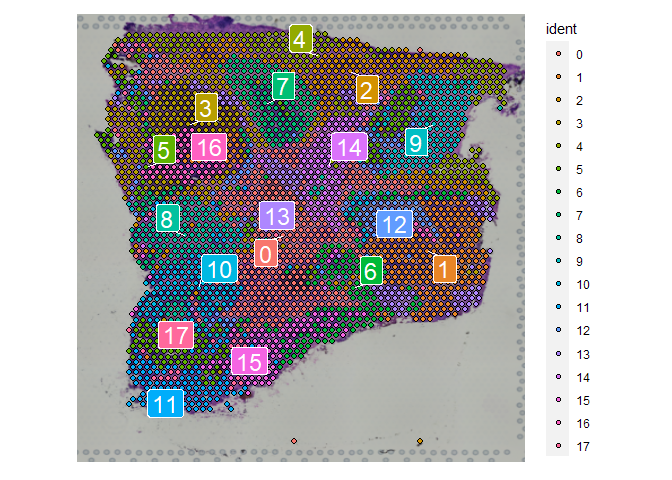
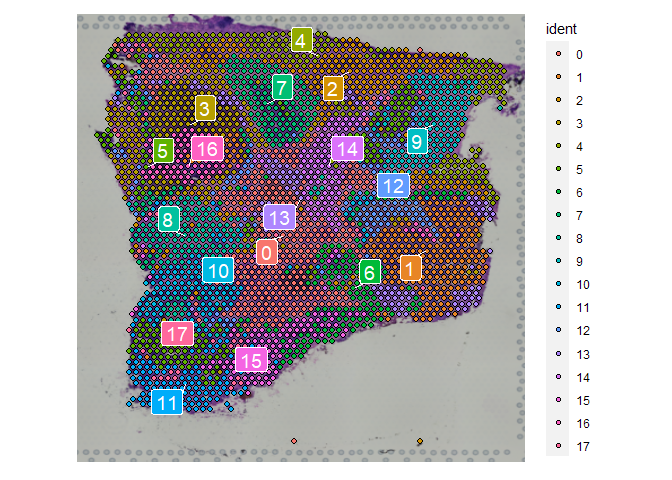
修改

diff --git a/ST_pipeline.md b/ST_pipeline.md
@@ -12,7 +12,7 @@ HSY
 
 ## 1. 基于Seurat的标准流程
 
-> 运行环境中的版本信息如下：R(4.2.1), Seurat(4.1.1)
+> 运行环境中的版本信息如下：R (4.2.1), Seurat (4.1.1)
 
 ``` r
 library(Seurat)
@@ -31,9 +31,85 @@ oneseuv = Load10X_Spatial("D:/hsy/project/ST/data/10x/Human Colorectal Cancer Wh
 
 ``` r
 # Normalization
-oneseuv <- SCTransform(oneseuv, assay = "Spatial", verbose = FALSE)
+oneseuv <- SCTransform(oneseuv, assay = "Spatial")
+```
+
+    ## Calculating cell attributes from input UMI matrix: log_umi
+
+    ## Variance stabilizing transformation of count matrix of size 18900 by 3138
+
+    ## Model formula is y ~ log_umi
+
+    ## Get Negative Binomial regression parameters per gene
+
+    ## Using 2000 genes, 3138 cells
+
+    ##   |                                                                              |                                                                      |   0%  |                                                                              |==================                                                    |  25%  |                                                                              |===================================                                   |  50%  |                                                                              |====================================================                  |  75%  |                                                                              |======================================================================| 100%
+
+    ## Found 95 outliers - those will be ignored in fitting/regularization step
+
+    ## Second step: Get residuals using fitted parameters for 18900 genes
+
+    ##   |                                                                              |                                                                      |   0%  |                                                                              |==                                                                    |   3%  |                                                                              |====                                                                  |   5%  |                                                                              |======                                                                |   8%  |                                                                              |=======                                                               |  11%  |                                                                              |=========                                                             |  13%  |                                                                              |===========                                                           |  16%  |                                                                              |=============                                                         |  18%  |                                                                              |===============                                                       |  21%  |                                                                              |=================                                                     |  24%  |                                                                              |==================                                                    |  26%  |                                                                              |====================                                                  |  29%  |                                                                              |======================                                                |  32%  |                                                                              |========================                                              |  34%  |                                                                              |==========================                                            |  37%  |                                                                              |============================                                          |  39%  |                                                                              |=============================                                         |  42%  |                                                                              |===============================                                       |  45%  |                                                                              |=================================                                     |  47%  |                                                                              |===================================                                   |  50%  |                                                                              |=====================================                                 |  53%  |                                                                              |=======================================                               |  55%  |                                                                              |=========================================                             |  58%  |                                                                              |==========================================                            |  61%  |                                                                              |============================================                          |  63%  |                                                                              |==============================================                        |  66%  |                                                                              |================================================                      |  68%  |                                                                              |==================================================                    |  71%  |                                                                              |====================================================                  |  74%  |                                                                              |=====================================================                 |  76%  |                                                                              |=======================================================               |  79%  |                                                                              |=========================================================             |  82%  |                                                                              |===========================================================           |  84%  |                                                                              |=============================================================         |  87%  |                                                                              |===============================================================       |  89%  |                                                                              |================================================================      |  92%  |                                                                              |==================================================================    |  95%  |                                                                              |====================================================================  |  97%  |                                                                              |======================================================================| 100%
+
+    ## Computing corrected count matrix for 18900 genes
+
+    ##   |                                                                              |                                                                      |   0%  |                                                                              |==                                                                    |   3%  |                                                                              |====                                                                  |   5%  |                                                                              |======                                                                |   8%  |                                                                              |=======                                                               |  11%  |                                                                              |=========                                                             |  13%  |                                                                              |===========                                                           |  16%  |                                                                              |=============                                                         |  18%  |                                                                              |===============                                                       |  21%  |                                                                              |=================                                                     |  24%  |                                                                              |==================                                                    |  26%  |                                                                              |====================                                                  |  29%  |                                                                              |======================                                                |  32%  |                                                                              |========================                                              |  34%  |                                                                              |==========================                                            |  37%  |                                                                              |============================                                          |  39%  |                                                                              |=============================                                         |  42%  |                                                                              |===============================                                       |  45%  |                                                                              |=================================                                     |  47%  |                                                                              |===================================                                   |  50%  |                                                                              |=====================================                                 |  53%  |                                                                              |=======================================                               |  55%  |                                                                              |=========================================                             |  58%  |                                                                              |==========================================                            |  61%  |                                                                              |============================================                          |  63%  |                                                                              |==============================================                        |  66%  |                                                                              |================================================                      |  68%  |                                                                              |==================================================                    |  71%  |                                                                              |====================================================                  |  74%  |                                                                              |=====================================================                 |  76%  |                                                                              |=======================================================               |  79%  |                                                                              |=========================================================             |  82%  |                                                                              |===========================================================           |  84%  |                                                                              |=============================================================         |  87%  |                                                                              |===============================================================       |  89%  |                                                                              |================================================================      |  92%  |                                                                              |==================================================================    |  95%  |                                                                              |====================================================================  |  97%  |                                                                              |======================================================================| 100%
+
+    ## Calculating gene attributes
+
+    ## Wall clock passed: Time difference of 53.5978 secs
+
+    ## Determine variable features
+
+    ## Place corrected count matrix in counts slot
+
+    ## Centering data matrix
+
+    ## Set default assay to SCT
+
+``` r
 # Dimensional reduction and clustering
-oneseuv <- RunPCA(oneseuv, assay = "SCT", verbose = FALSE)
+oneseuv <- RunPCA(oneseuv, assay = "SCT")
+```
+
+    ## PC_ 1 
+    ## Positive:  IGHG4, IGKC, IGHG1, IGLC2, COL1A1, COL1A2, COL3A1, IGHG3, SPARC, VIM 
+    ##     MGP, APOE, IGHA1, C3, IGFBP7, IGLC1, IGLC3, AEBP1, JCHAIN, LUM 
+    ##     COL6A2, BGN, CD74, IGHG2, TAGLN, DCN, SFRP2, HLA-DRA, COL6A1, GPNMB 
+    ## Negative:  CKB, RPS19, RPS21, RPS4X, FABP1, RPL36A, RPL39, ID1, RPL34, RPL8 
+    ##     RPS3A, PIGR, RPS6, RPL37A, SELENBP1, OLFM4, RPL7, FXYD3, RPL30, RPL13A 
+    ##     CDH17, PHGR1, TFF3, CD24, KRT8, ELF3, ASCL2, NDRG1, GPX2, TSPAN8 
+    ## PC_ 2 
+    ## Positive:  APOE, CKB, PSAP, IFI30, ITGB2, ACTB, APOC1, LYZ, CTSB, PIGR 
+    ##     CD74, NUPR1, HLA-DRB1, LAPTM5, TYROBP, MMP9, HLA-DQA1, HLA-DRA, ATF4, CTSD 
+    ##     CD68, COL6A2, C1QB, APOC2, CAPG, CTSZ, FCER1G, ID1, HLA-DPA1, FTL 
+    ## Negative:  MT-CO2, MT-CO1, MT-CO3, MT-ND4, MT-ND1, MT-ND3, MT-ATP6, MT-CYB, MT-ND2, IGKC 
+    ##     IGHG4, IGHG1, IGLC2, MT-ND5, IGHG3, MTRNR2L12, RPL39, MALAT1, IGLC1, IGLC3 
+    ##     MT-ND4L, AL627171.2, IGHA1, MTRNR2L8, RPS21, MT-ATP8, PABPC1, RPL30, RPS27, RPL41 
+    ## PC_ 3 
+    ## Positive:  IGHG4, IGHG1, IGKC, IGHG3, IGLC2, IGHA1, IGLC3, MGP, JCHAIN, IGLC1 
+    ##     IGHG2, C3, SFRP2, AEBP1, MYL9, TAGLN, MALAT1, COL1A2, IGHM, SFRP4 
+    ##     LUM, IGHA2, CCN1, BGN, COMP, ACTA2, MZB1, DCN, COL1A1, THBS1 
+    ## Negative:  MT-CO1, MT-CO2, MT-ND4, MT-ND1, MT-CO3, MT-ATP6, SPP1, MT-ND2, APOC1, LYZ 
+    ##     CTSB, MT-ND3, MMP9, IFI30, CHI3L1, FTL, LAPTM5, MT-CYB, CTSD, APOE 
+    ##     TYROBP, ITGB2, CD74, CXCL10, HLA-DRA, APOC2, FCER1G, CD68, GPNMB, HLA-DRB1 
+    ## PC_ 4 
+    ## Positive:  IGKC, IGHG4, IGHG1, IGLC2, CKB, IGHG3, IGHA1, IGLC1, IGLC3, IGHG2 
+    ##     ID1, FABP1, APOC1, APOE, JCHAIN, CD74, SELENBP1, FTL, LYZ, CHI3L1 
+    ##     HLA-DRA, GPNMB, CTSD, RPL41, HLA-DRB1, ADGRG2, RPL10, APOC2, FXYD3, ADIRF 
+    ## Negative:  OLFM4, COL4A1, CEACAM6, MYL9, TAGLN, COL4A2, MMP11, SPARC, ACTA2, POSTN 
+    ##     IGFBP7, MT-CO1, COL12A1, COL5A2, SULF1, S100A4, COL1A2, HTRA3, CCN2, DMBT1 
+    ##     COL3A1, COL5A1, COL6A2, MMP7, COL1A1, FLNA, CALD1, COL18A1, AEBP1, TIMP3 
+    ## PC_ 5 
+    ## Positive:  CKB, ID1, FABP1, FABP4, SFRP2, ADIRF, ADH1B, ADGRG2, SELENBP1, NDRG1 
+    ##     GPX3, PLIN1, C7, FOS, SELENOP, EEF1A1, ADIPOQ, NNMT, IGFBP4, MT-CO1 
+    ##     RPL41, SAA1, CFD, CCN1, EFEMP1, COL3A1, DCN, LUM, COL6A3, CD36 
+    ## Negative:  IGHG4, MALAT1, IGKC, IGLC2, IGLC1, IGHG1, IGHG3, OLFM4, MYL9, SPP1 
+    ##     CEACAM6, IFI6, FN1, CCDC88B, IGHA1, PMEPA1, KRT8, MMP9, MMP7, FLNA 
+    ##     MTRNR2L12, TYMP, AEBP1, KRT18, IFI27, DES, CHI3L1, ISG15, JSRP1, MYH11
+
+``` r
 oneseuv <- FindNeighbors(oneseuv, reduction = "pca", dims = 1:30)
 ```
 
@@ -42,30 +118,43 @@ oneseuv <- FindNeighbors(oneseuv, reduction = "pca", dims = 1:30)
     ## Computing SNN
 
 ``` r
-oneseuv <- FindClusters(oneseuv, verbose = FALSE)
+oneseuv <- FindClusters(oneseuv)
+```
+
+    ## Modularity Optimizer version 1.3.0 by Ludo Waltman and Nees Jan van Eck
+    ## 
+    ## Number of nodes: 3138
+    ## Number of edges: 103762
+    ## 
+    ## Running Louvain algorithm...
+    ## Maximum modularity in 10 random starts: 0.8344
+    ## Number of communities: 18
+    ## Elapsed time: 0 seconds
+
+``` r
 oneseuv <- RunUMAP(oneseuv, reduction = "pca", dims = 1:30)
 ```
 
-    ## 17:03:39 UMAP embedding parameters a = 0.9922 b = 1.112
+    ## 19:26:37 UMAP embedding parameters a = 0.9922 b = 1.112
 
-    ## 17:03:39 Read 3138 rows and found 30 numeric columns
+    ## 19:26:37 Read 3138 rows and found 30 numeric columns
 
-    ## 17:03:39 Using Annoy for neighbor search, n_neighbors = 30
+    ## 19:26:37 Using Annoy for neighbor search, n_neighbors = 30
 
-    ## 17:03:39 Building Annoy index with metric = cosine, n_trees = 50
+    ## 19:26:37 Building Annoy index with metric = cosine, n_trees = 50
 
     ## 0%   10   20   30   40   50   60   70   80   90   100%
 
     ## [----|----|----|----|----|----|----|----|----|----|
 
     ## **************************************************|
-    ## 17:03:40 Writing NN index file to temp file C:\Users\15927\AppData\Local\Temp\RtmpqMX2CN\file3bb84e6b6fad
-    ## 17:03:40 Searching Annoy index using 1 thread, search_k = 3000
-    ## 17:03:41 Annoy recall = 100%
-    ## 17:03:41 Commencing smooth kNN distance calibration using 1 thread
-    ## 17:03:41 Initializing from normalized Laplacian + noise
-    ## 17:03:41 Commencing optimization for 500 epochs, with 130972 positive edges
-    ## 17:03:49 Optimization finished
+    ## 19:26:37 Writing NN index file to temp file C:\Users\15927\AppData\Local\Temp\RtmpSoPgjB\fileb742e443673
+    ## 19:26:37 Searching Annoy index using 1 thread, search_k = 3000
+    ## 19:26:38 Annoy recall = 100%
+    ## 19:26:38 Commencing smooth kNN distance calibration using 1 thread
+    ## 19:26:39 Initializing from normalized Laplacian + noise
+    ## 19:26:39 Commencing optimization for 500 epochs, with 130972 positive edges
+    ## 19:26:47 Optimization finished
 
 查看降维结果，可以使用以下代码：
 
@@ -76,7 +165,7 @@ DimPlot(oneseuv, reduction = "umap", pt.size = 1.5, label = TRUE,repel = T,label
 ![](ST_pipeline_files/figure-gfm/unnamed-chunk-2-1.png)<!-- -->
 
 ``` r
-SpatialDimPlot(oneseuv, label = TRUE,repel = T,label.size = 6)
+SpatialDimPlot(oneseuv, label = TRUE,repel = T,label.size = 5)
 ```
 
     ## Scale for fill is already present.
@@ -87,7 +176,7 @@ SpatialDimPlot(oneseuv, label = TRUE,repel = T,label.size = 6)
 如果想查看某些基因的表达量，可以使用以下代码：
 
 ``` r
-SpatialFeaturePlot(oneseuv, features = c("EPCAM","MUC2", "CD3D","CD8B"),ncol = 2)
+SpatialFeaturePlot(oneseuv, features = c("EPCAM","CD3D"),ncol = 2)
 ```
 
 ![](ST_pipeline_files/figure-gfm/unnamed-chunk-4-1.png)<!-- -->
